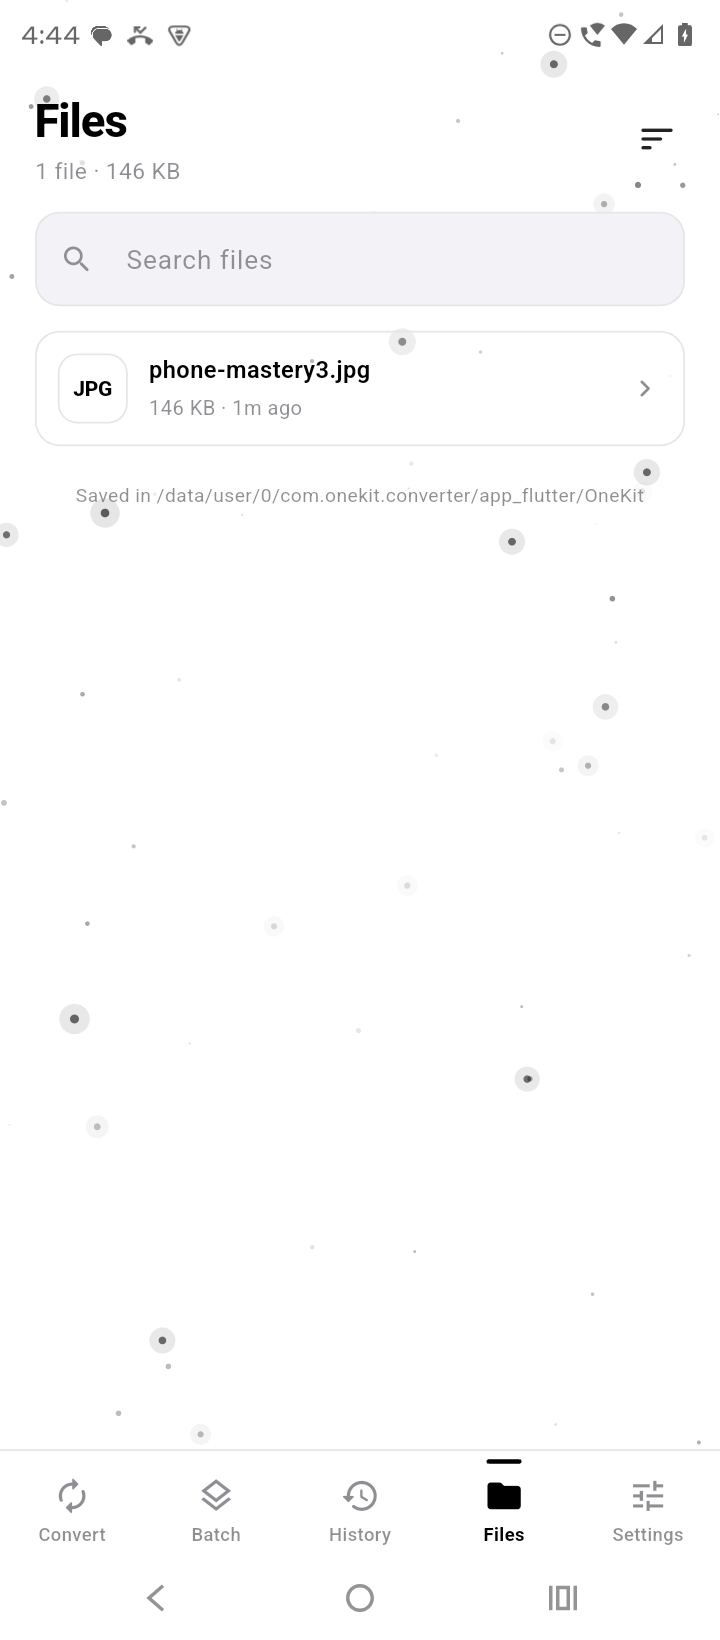
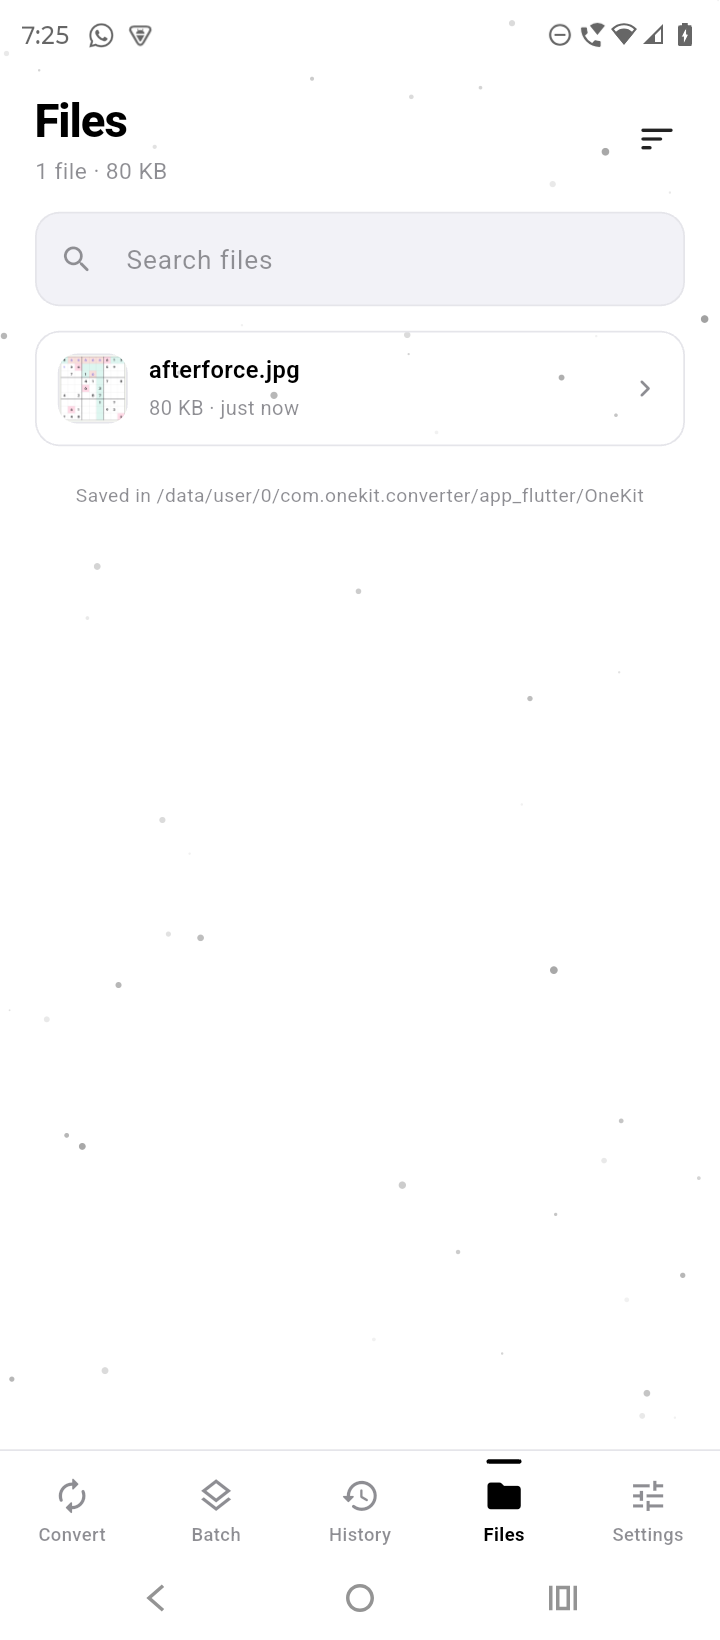
Strip merged media permissions, drop unused deps, add privacy policy
Checking the built APK with aapt2 rather than trusting the source manifest
showed the file picker plugin merging in READ_EXTERNAL_STORAGE and
READ_MEDIA_IMAGES / VIDEO / AUDIO. Two consequences: the store listing's claim
that OneKit requests no storage permission was false, and broad media access
would have pulled the app into Google's Photo and Video Permissions policy
review for something it never uses. Removed via tools:node="remove" and
verified on device that picking still works -- Android's document picker needs
no permission at all.

Also removes four dependencies with zero imports (qr, permission_handler,
mime, flutter_image_compress; the last two ship native code), refreshes the
store listing to the current 5,880 pairs across 144 formats, recaptures the
screenshots from the current build now that previews exist, and adds a privacy
policy ready to host.

Claude-Session: https://claude.ai/code/session_01NeVxz3AFFgLNgqkt5yoUPs

diff --git a/windows/flutter/generated_plugin_registrant.cc b/windows/flutter/generated_plugin_registrant.cc
@@ -7,15 +7,12 @@
 #include "generated_plugin_registrant.h"
 
 #include <ffmpeg_kit_flutter_new/f_fmpeg_kit_flutter_plugin.h>
-#include <permission_handler_windows/permission_handler_windows_plugin.h>
 #include <share_plus/share_plus_windows_plugin_c_api.h>
 #include <url_launcher_windows/url_launcher_windows.h>
 
 void RegisterPlugins(flutter::PluginRegistry* registry) {
   FFmpegKitFlutterPluginRegisterWithRegistrar(
       registry->GetRegistrarForPlugin("FFmpegKitFlutterPlugin"));
-  PermissionHandlerWindowsPluginRegisterWithRegistrar(
-      registry->GetRegistrarForPlugin("PermissionHandlerWindowsPlugin"));
   SharePlusWindowsPluginCApiRegisterWithRegistrar(
       registry->GetRegistrarForPlugin("SharePlusWindowsPluginCApi"));
   UrlLauncherWindowsRegisterWithRegistrar(

diff --git a/store/privacy-policy.md b/store/privacy-policy.md
@@ -1,0 +1,80 @@
+# Privacy Policy — OneKit: Local File Converter
+
+**Last updated: 27 August 2026**
+
+## The short version
+
+OneKit converts your files on your phone. Your files are never uploaded,
+never sent to a server, and never seen by anyone but you. There is no account
+and no sign-in.
+
+The only part of OneKit that uses the internet at all is the advertising
+banner, provided by Google AdMob.
+
+## What OneKit does with your files
+
+When you pick a file, OneKit reads it, converts it on your device, and writes
+the result to the app's own private storage folder. That is the whole
+lifecycle.
+
+- Your files are **not uploaded** anywhere.
+- Your files are **not shared** with us or any third party.
+- We **cannot see** your files, their names, or their contents. There is no
+  server for them to reach.
+- Conversion works with no internet connection at all.
+
+The list of conversions you have run ("History") and your settings are stored
+in private storage on your device. They are not transmitted. You can erase
+them at any time from **Settings → Clear conversion history** and
+**Settings → Clear working files**, or by uninstalling the app.
+
+## What is collected
+
+OneKit itself collects nothing.
+
+OneKit displays ads through **Google AdMob**. To show those ads, Google may
+collect and process:
+
+- your device's **advertising ID**,
+- general device information (model, operating system version, language),
+- coarse location inferred from your IP address,
+- ad interaction data (whether an ad was shown, viewed, or tapped).
+
+This is handled by Google, not by us, and is governed by Google's own privacy
+policy: <https://policies.google.com/privacy>
+
+You can limit this at any time in **Android Settings → Privacy → Ads**, where
+you can delete or reset your advertising ID and opt out of ad personalisation.
+
+## Permissions OneKit requests, and why
+
+| Permission | Why |
+| --- | --- |
+| `INTERNET` | Required to load ads. Nothing else in the app uses the network. |
+| `ACCESS_NETWORK_STATE` | Required by the Google Mobile Ads SDK. |
+| `AD_ID` | Required by AdMob on Android 13 and above. |
+| `WAKE_LOCK` | Keeps long video and batch conversions running while the app is open. |
+
+OneKit does **not** request storage permission. Files reach the app only
+through Android's own file picker, which means you choose each file
+explicitly, and results are shared out through Android's share sheet.
+
+## Children
+
+OneKit is a general-purpose utility and is not directed at children. We do not
+knowingly collect personal information from anyone.
+
+## Payments and donations
+
+OneKit is free. If you choose to leave a tip, that link opens Buy Me a Coffee
+in your browser. Any payment happens entirely on their site under their own
+privacy policy; OneKit neither sees nor stores payment details.
+
+## Changes to this policy
+
+If this policy changes, the revised version will be published at this same
+address with an updated date above.
+
+## Contact
+
+Questions about this policy: **neeleshasati118@gmail.com**

diff --git a/store/listing.md b/store/listing.md
@@ -10,7 +10,7 @@ OneKit - Local File Converter
 ## Short description (80 chars max)
 
 ```
-Convert 5,900+ file formats offline. No upload, no account, nothing leaves you.
+Convert 5,800+ file formats offline. No upload, no account, nothing leaves you.
 ```
 *(78 characters)*
 
@@ -24,7 +24,7 @@ That one decision changes everything about how a converter behaves. Your files
 stay private. It works on a plane, on the metro, on no signal at all. There is
 no 100 MB cap, no daily limit, and no "upgrade to convert this one".
 
-5,935 CONVERSIONS, 145 FORMATS
+5,880 CONVERSIONS, 144 FORMATS
 
 • Images — PNG, JPG, WebP, AVIF, HEIC, HEIF, TIFF, BMP, GIF, ICO, JPEG 2000,
   QOI, PSD, EXR, HDR, TGA, PCX, DDS and more
@@ -65,6 +65,10 @@ space you saved.
 
 Files — a built-in file manager for your converted files: search, sort,
 select several, share, delete, or convert them again.
+
+Previews — OneKit shows you the result itself. Convert to an unusual format
+and you can still see it, even with no other app on your phone that
+understands it.
 
 DESIGN
 
@@ -111,16 +115,27 @@ the device. Nothing is transmitted.
 
 ## Permissions and why
 
+Verified against the built APK with `aapt2 dump badging`, not just the source
+manifest — plugins merge permissions in, and two of them had to be stripped.
+
 | Permission | Reason |
 | --- | --- |
 | `INTERNET` | AdMob only |
 | `ACCESS_NETWORK_STATE` | Required by the Google Mobile Ads SDK |
-| `AD_ID` | AdMob on Android 13+ |
+| `AD_ID`, `ACCESS_ADSERVICES_*` | AdMob on Android 13+ |
 | `WAKE_LOCK` | Keeps long video and batch conversions running |
+| `FOREGROUND_SERVICE` | Declared by the FFmpeg plugin |
 
-No storage permission is requested: files come in through the system picker
-and results are written to app-private storage, then shared out via the
-system share sheet.
+**No storage or media permission is requested.** `READ_EXTERNAL_STORAGE` and
+`READ_MEDIA_IMAGES` / `VIDEO` / `AUDIO` were being merged in by the file picker
+plugin and are explicitly removed in the manifest. Files reach the app only
+through Android's own document picker, which requires no permission, and
+results are written to app-private storage and shared out via the system share
+sheet. Verified on device: picking still works with all of them removed.
+
+Keeping them would have been untrue to the privacy claim above and would have
+pulled the app into Google's **Photo and Video Permissions** policy review for
+access it never uses.
 
 ## Assets in this folder
 
